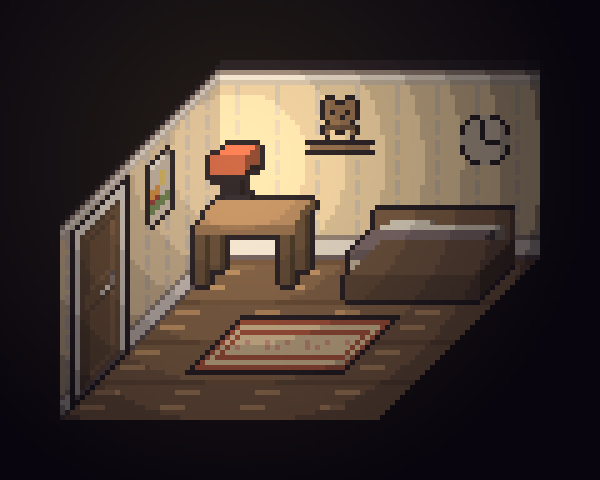
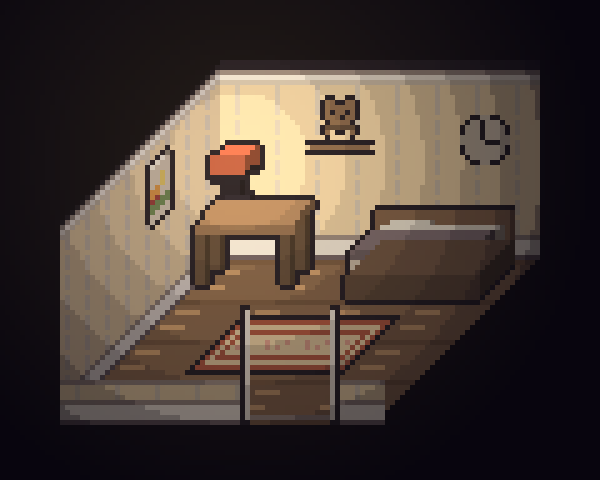
Front-wall door support (low front wall + door frame) for child room and balcony to keep exit direction; spec §16
Claude-Session: https://claude.ai/code/session_01FPZSaKiVNU2zED737yZX4w

Changed region(s): [[0.09, 0.375, 0.66, 0.9062]]

diff --git a/tools/render_room.py b/tools/render_room.py
@@ -122,6 +122,27 @@ def render_room(path, scale=1):
             img.alpha_composite(sp, (int(round(gx - 1)), int(round(gy - (sp.height - 2) - lift))))
             if nm in lights: emitters.append((gx + 5 + SK * 6, gy - 22 - SS * 6 - lift) + lights[nm])      # 스탠드 갓 근처에서 둥글게 퍼지는 빛
         else: stamp(nm, gx, gy - lift)
+    # 앞벽(화면 아래쪽): 낮은 벽 + 출입문 틀. 복도에서 위로 나가면 이 방에서도 계속 위를 보도록, 출입문은 앞벽에 둔다
+    fk = extra.get('front_wall')
+    if fk:
+        LOW, POST = 9, 24
+        dx0, dw = [int(v) for v in extra.get('front_door', '0 20').split()]
+        for xx in range(int(W + 1)):
+            X = int(X0 + xx)
+            in_door = dx0 <= xx < dx0 + dw
+            post = dx0 <= xx < dx0 + 2 or dx0 + dw - 2 <= xx < dx0 + dw
+            top = POST if post else (0 if in_door else LOW)
+            for z in range(top):
+                Y = int(Y0 + 1 - 1 - z) - 0
+                if post: col = (247, 245, 240, 255) if 0 < z < top - 1 and xx not in (dx0, dx0 + dw - 1) else (26, 22, 32, 255)
+                elif z == top - 1: col = (156, 143, 138, 255)
+                else: col = get(f'wall_base_{fk}', xx, 15 - z)
+                px[X, Y] = col
+            if in_door and not post:                        # 문턱과 발판
+                for z in range(2): px[X, int(Y0) - z] = (115, 86, 62, 255) if z == 0 else (156, 143, 138, 255)
+        glow = extra.get('front_glow')
+        if glow:
+            emitters.append((X0 + dx0 + dw / 2, Y0 - 8, 54, float(glow), (232, 207, 106)))
     # 조명과 톤
     bg = Image.new('RGBA', img.size, (8, 6, 12, 255)); bg.alpha_composite(img); img = R.shade(bg, emitters, m['ambient'], False)
     if m['tone']:

diff --git a/tools/render_maps.py b/tools/render_maps.py
@@ -43,7 +43,7 @@ def load_map(path):
             m['tone'] = tuple(int(v) for v in line[5:].split())
         elif line.startswith('ambient:'):
             m['ambient'] = float(line[8:])
-        elif line.startswith(('view:', 'left_wall:', 'left_add:', 'sky_rows:')) and section is None:
+        elif line.startswith(('view:', 'left_wall:', 'left_add:', 'sky_rows:', 'front_wall:', 'front_door:', 'front_glow:')) and section is None:
             m.setdefault('extra', {})[line.split(':')[0]] = line.split(':', 1)[1].strip()      # 사선 시점 방(render_room.py)용 추가 줄
         elif line.startswith('dream:'):
             m['dream'] = dict(p.split('=') for p in line[6:].split())

diff --git a/docs/superpowers/specs/2026-11-14-stopped-clock-design.md b/docs/superpowers/specs/2026-11-14-stopped-clock-design.md
@@ -325,3 +325,9 @@
 시작 장면, 아이 방 책상 위의 종이(`desk_set`의 종이 부품)에 시가 적혀 있다. 조사하면 읽힌다. 전문은 `docs/content/poem_on_desk.md`.
 - 시는 이야기의 주제("보는 관점의 차이")와 학교폭력, 부모님의 호의 읽기를 한 번에 함축하며, 해석은 게임에서 붙이지 않는다.
 - 나중에 라디오 조각, 엔딩 자막과 같은 문장을 반복할 수 있다(제안).
+
+## 16. 시작 장면 동선과 문 방향 (사용자 확정)
+시작 장면은 **아이 방 → 복도 → 베란다**로 이어지는 한 줄 동선이고, 베란다에 도착하면 앞서 말한 추락 컷신이 시작된다.
+- **방향 유지 규칙**: 방과 베란다는 복도의 위쪽(뒷벽)에 있다. 아이 방과 베란다의 출입문은 각각의 **앞벽(화면 아래쪽)**에 두어, 복도에서 위로 나가면 방/베란다에서도 계속 위를 향한다. 반대로 방에서 나가면 아래로 나가 복도에 닿는다.
+- **표현**: 앞벽은 낮은 벽(9px)으로 그리고, 출입문은 문틀 기둥(24px)과 문턱만 보인다(`front_wall`, `front_door: x폭`, `front_glow`). 벽이 시선을 가리지 않게 하는 절충이다.
+- 베란다 크기는 이전과 같고 바닥 앞쪽만 한 줄 늘렸다. 복도의 아이 방 문은 뒷벽에 있고 맨 왼쪽은 거실로 이어지는 입구다.
